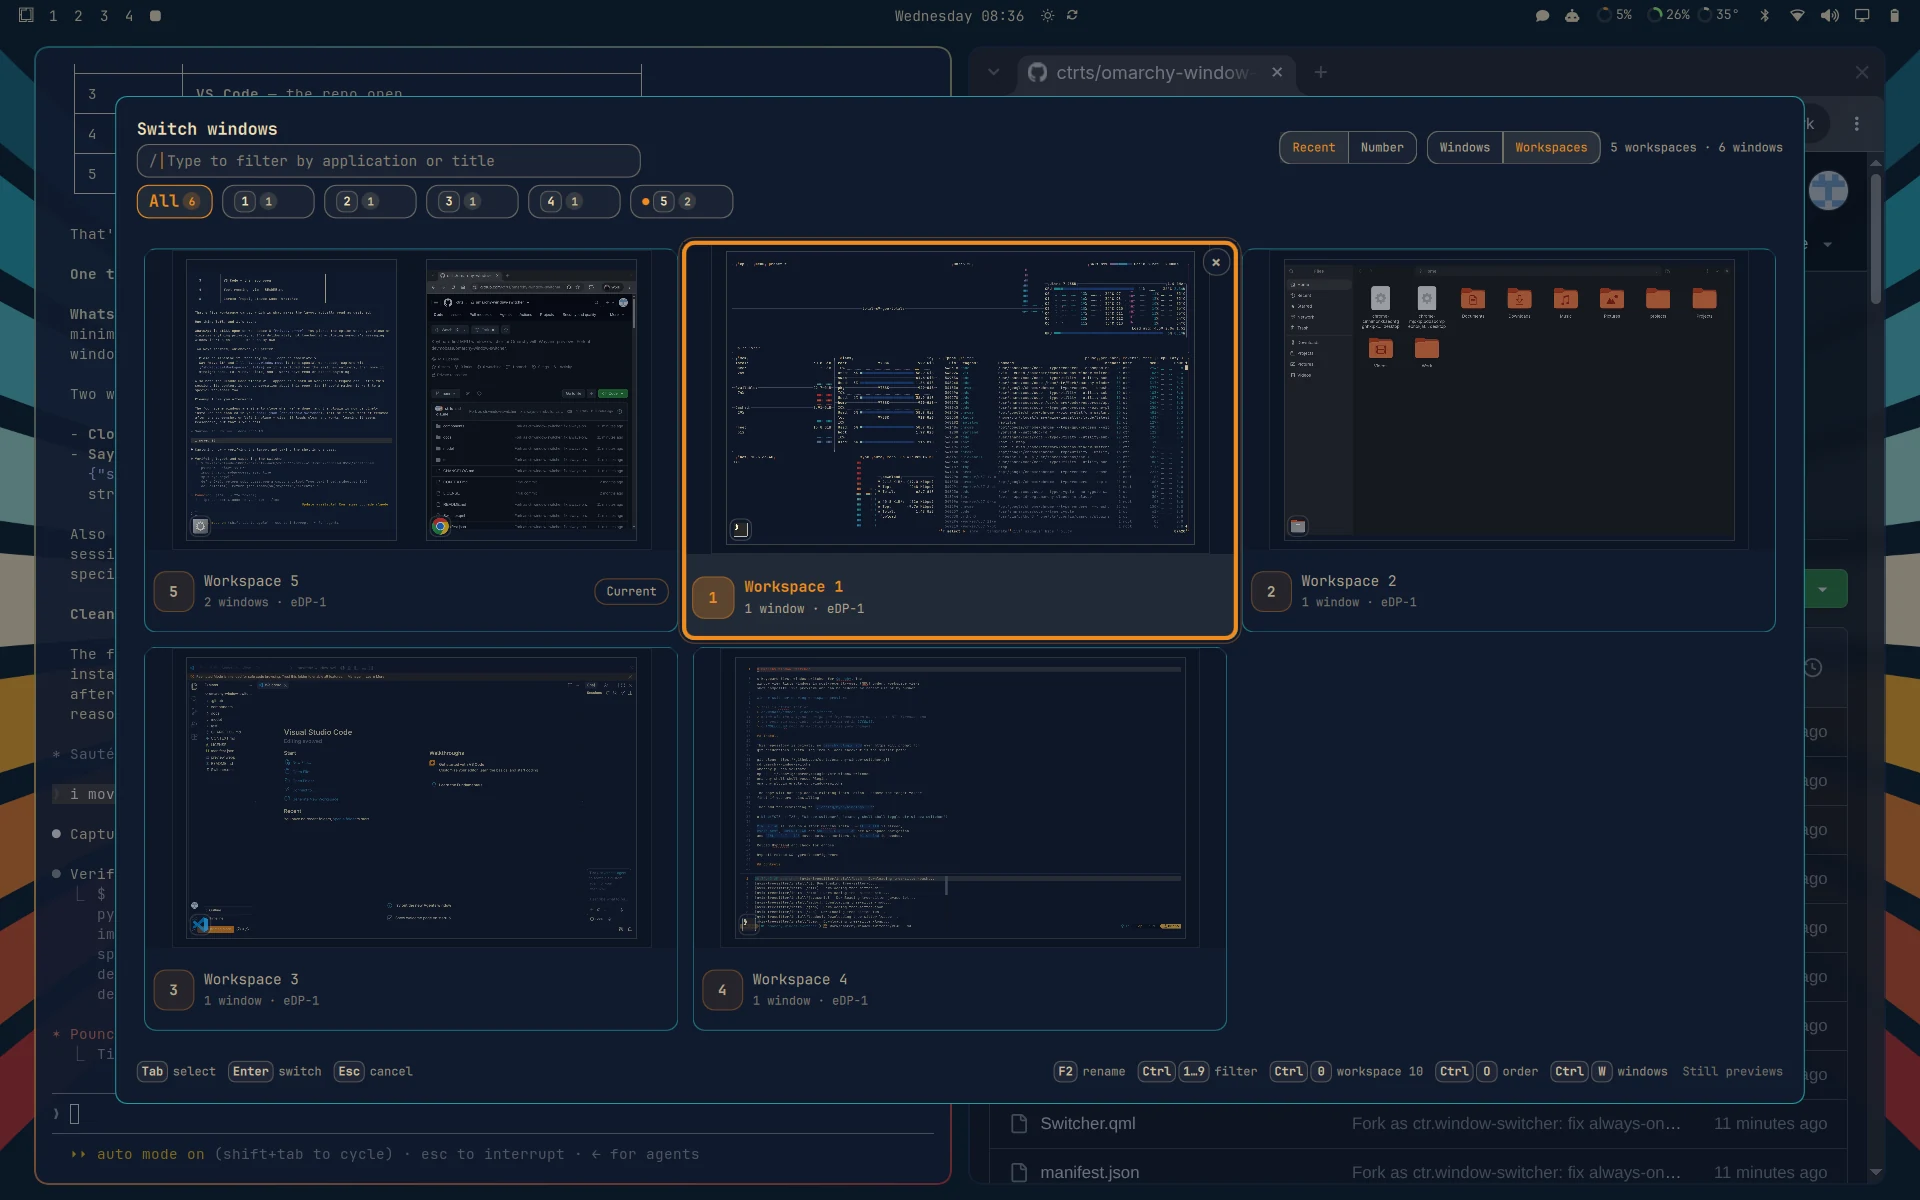
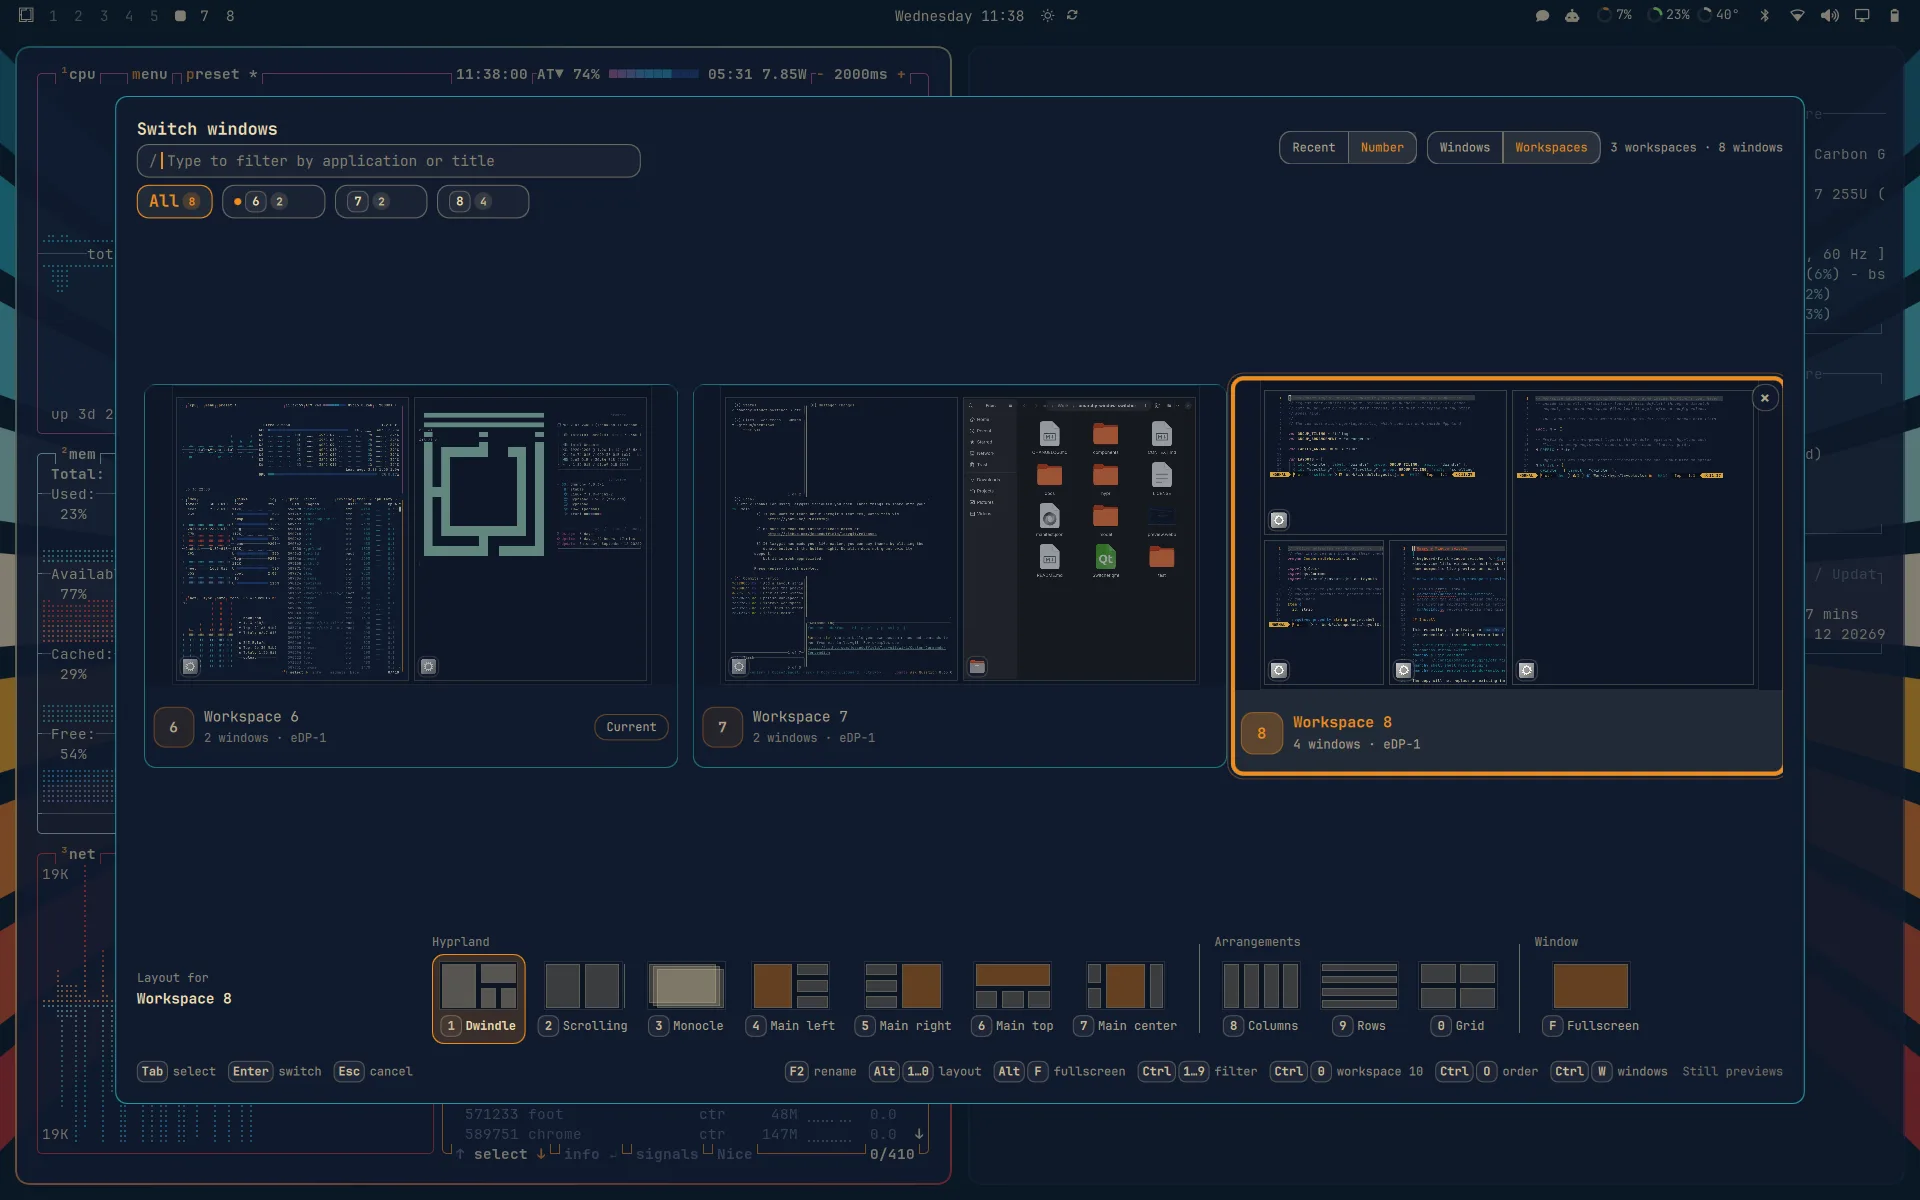
Draw real window placement on workspace cards; refresh screenshots
Records read window position with Array.isArray(ipc.at), but Hyprland
IPC pairs arrive as Qt sequences, which that check rejects. Every rect
was null, so every workspace card fell back to even tiles and a layout
change could never show on its card. Accept any array-like pair.

Replace the preview with a capture of the workspace view and its layout
strip, and add docs/layouts.webp showing a workspace after picking Main
left.

diff --git a/components/WindowRecords.qml b/components/WindowRecords.qml
@@ -111,11 +111,22 @@ QtObject {
     }
   }
 
+  // Hyprland IPC pairs such as `at` and `size` arrive as Qt sequences, not JS
+  // arrays, so Array.isArray() rejects them. Rejecting them nulled every
+  // window rect and silently put every workspace card on the even-tile
+  // fallback instead of real window placement.
+  function ipcPair(value) {
+    if (!value || typeof value.length !== "number" || value.length < 2) return null
+    var first = Number(value[0])
+    var second = Number(value[1])
+    return isFinite(first) && isFinite(second) ? [first, second] : null
+  }
+
   function recordFor(toplevel, sourceIndex, entries) {
     var hyprland = hyprlandToplevelFor(toplevel)
     var ipc = hyprland && hyprland.lastIpcObject ? hyprland.lastIpcObject : {}
-    var at = Array.isArray(ipc.at) ? ipc.at : null
-    var ipcSize = Array.isArray(ipc.size) ? ipc.size : null
+    var at = ipcPair(ipc.at)
+    var ipcSize = ipcPair(ipc.size)
     var appId = String((toplevel && toplevel.appId) || ipc.class || ipc.initialClass || "")
     var appInfo = appInfoFor(appId, entries)
     var workspace = hyprland ? hyprland.workspace : null
@@ -143,10 +154,10 @@ QtObject {
       monitorId: monitorId,
       monitorName: monitorName,
       rect: at && ipcSize ? {
-        x: Number(at[0]) || 0,
-        y: Number(at[1]) || 0,
-        width: Number(ipcSize[0]) || 0,
-        height: Number(ipcSize[1]) || 0
+        x: at[0],
+        y: at[1],
+        width: ipcSize[0],
+        height: ipcSize[1]
       } : null,
       monitorRect: monitorRectFor(monitor),
       active: (toplevel && toplevel.activated === true) || (hyprland && hyprland.activated === true),

diff --git a/test/contract.test.js b/test/contract.test.js
@@ -175,6 +175,10 @@ assert.match(recordsSource, /record\.searchBase = \[/,
   'records carry a prebuilt search haystack rather than rebuilding one per keystroke')
 assert.doesNotMatch(snapshotSource, /searchBase/,
   'the cached haystack is not a tracked snapshot field; it contains the title')
+assert.doesNotMatch(recordsSource, /Array\.isArray\(ipc\./,
+  'IPC geometry is a Qt sequence; Array.isArray rejects it and every card falls back to even tiles')
+assert.match(recordsSource, /var at = ipcPair\(ipc\.at\)[\s\S]*?var ipcSize = ipcPair\(ipc\.size\)/,
+  'window rects accept the array-like pairs Hyprland IPC actually delivers')
 assert.match(recordsSource, /appMemo\[cacheKey\] = info/,
   'desktop-entry matching is memoized instead of rescanned for every window')
 assert.match(recordsSource, /objectKeyRows = next[\s\S]{0,240}?appMemo = \(\{\}\)/,

diff --git a/CHANGELOG.md b/CHANGELOG.md
@@ -50,6 +50,12 @@ backed by the test suite and static analysis only.
   At 1200px with a 160px minimum that produced a 159px card, and the scrolling
   fallback that exists precisely to hold the floor recomputed the same 159.
 
+- **Workspace cards now draw windows where they really are.** Records read
+  the window position with `Array.isArray(ipc.at)`, but Hyprland IPC pairs
+  arrive as Qt sequences, which that check rejects. Every rect was null, so
+  every card used the even-tile fallback — and a layout change could never
+  show on its card.
+
 ### Performance
 
 - **Selection no longer reallocates capture buffers.** The selected border was

diff --git a/README.md b/README.md
@@ -102,6 +102,8 @@ stays open so the card shows the result; Enter or Escape carries on as usual.
 | Alt+0 | Grid | Arrangement |
 | Alt+F | Fullscreen | Window |
 
+![Workspace 8 after picking Main left in the layout strip](docs/layouts.webp)
+
 Fullscreen is a toggle on the workspace's most recent window — the one Enter
 switches to — rather than a saved layout. It is marked while that workspace has
 a fullscreen window.
